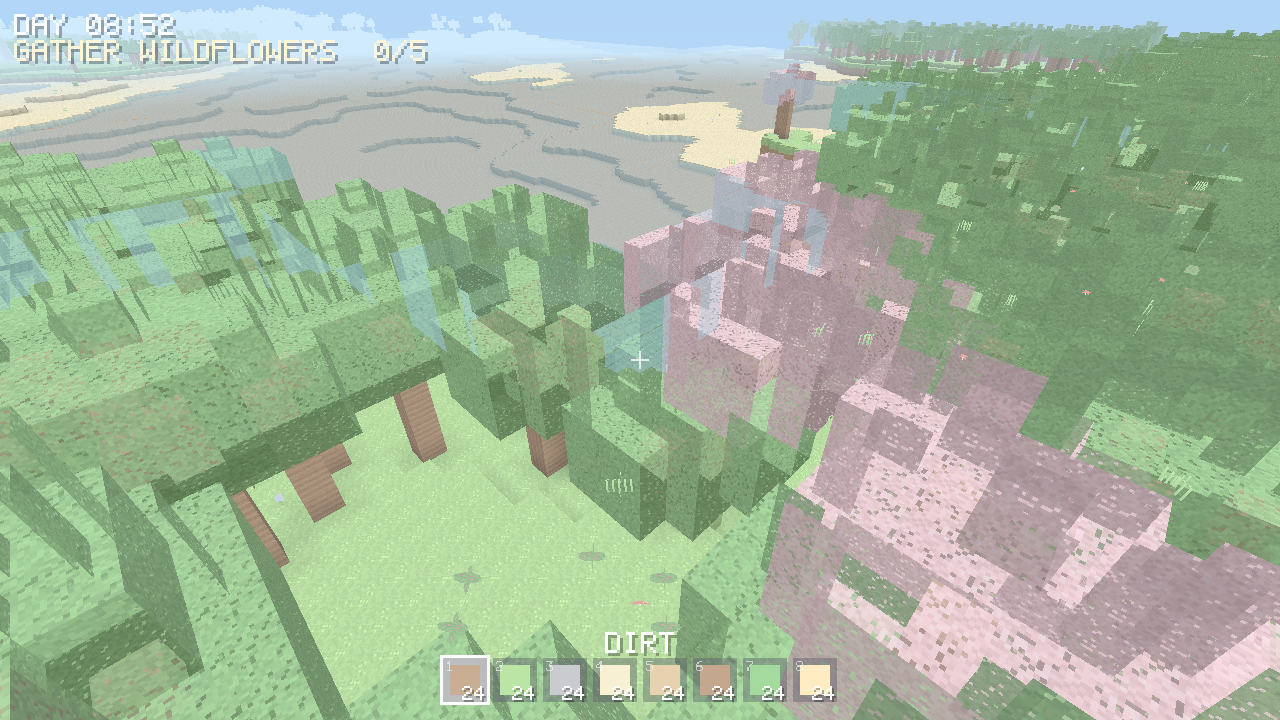
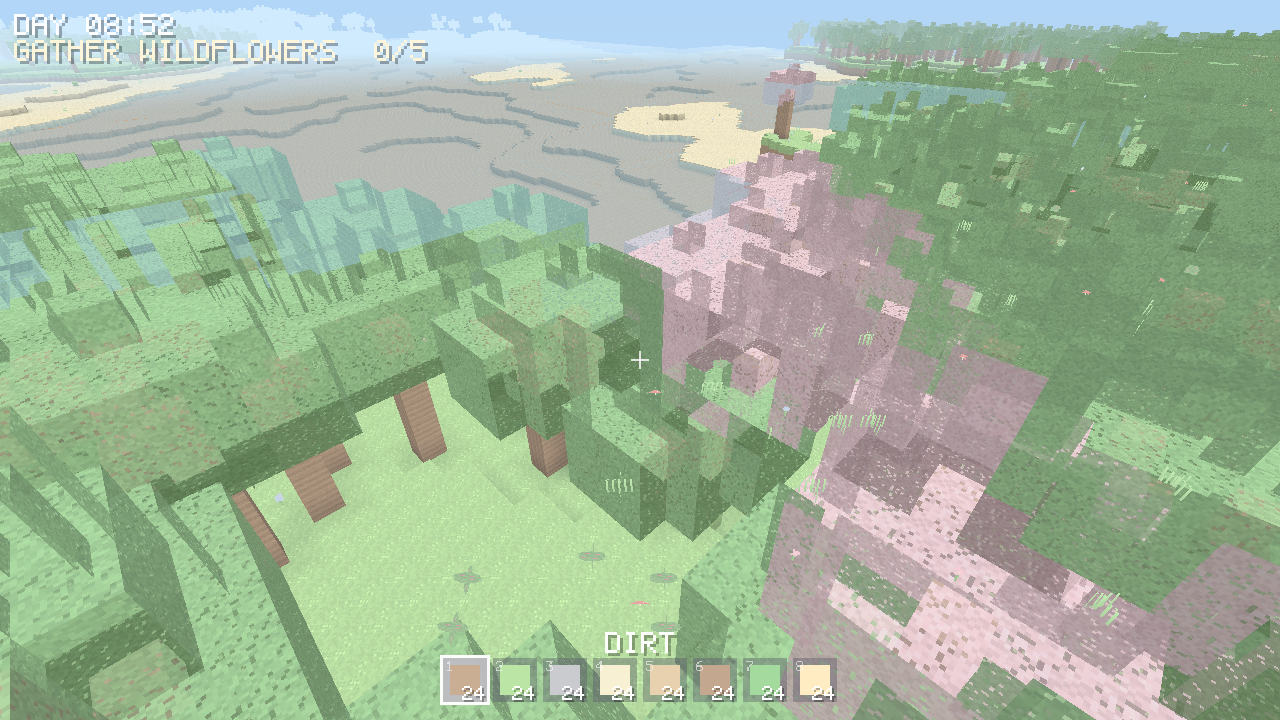
Stage 16 clip: day-cycle timelapse GIF generator
- Headless renderer can now return raw RGBA frames (capture_rgba), and the
  screenshot tool encodes a looping day->night->day GIF showing the moving sky,
  sun/moon/stars and rippling water.
- GIFs are git-ignored (large generated artifacts).

diff --git a/crates/game/src/bin/screenshot.rs b/crates/game/src/bin/screenshot.rs
@@ -200,7 +200,44 @@ fn main() {
         println!("  wrote {path}");
     }
 
+    // A day→night→day timelapse GIF over the valley.
+    make_timelapse(&game, ground, &out_dir);
+
     println!("Done. Screenshots in '{out_dir}/'.");
+}
+
+/// Render a small animated GIF cycling through a full day, showing the moving
+/// sky, sun/stars and rippling water.
+fn make_timelapse(game: &Game, ground: Vec3, out_dir: &str) {
+    const W: u32 = 480;
+    const H: u32 = 270;
+    const FRAMES: u32 = 40;
+
+    let mut clip = pixelcraft_game::render::Headless::new(W, H);
+    clip.set_render_distance(9.0 * CHUNK_EDGE);
+    clip.sync_meshes(&game.manager);
+    clip.update_entities(&game.entities);
+
+    let center = ground + Vec3::new(0.0, 2.0, 0.0);
+    let eye = center + Vec3::new(16.0, 12.0, 16.0);
+    let forward = (center - eye).normalize();
+    let camera = Camera::new(eye, forward, W as f32 / H as f32);
+
+    let path = format!("{out_dir}/09_daycycle.gif");
+    let file = std::fs::File::create(&path).expect("create gif");
+    let mut encoder = gif::Encoder::new(file, W as u16, H as u16, &[]).expect("gif encoder");
+    encoder.set_repeat(gif::Repeat::Infinite).ok();
+
+    for i in 0..FRAMES {
+        let tod = i as f32 / FRAMES as f32;
+        let env = Environment { time_of_day: tod, day_length: 600.0 };
+        clip.set_time(i as f32 * 0.35);
+        let mut rgba = clip.capture_rgba(&camera, &env);
+        let mut frame = gif::Frame::from_rgba_speed(W as u16, H as u16, &mut rgba, 10);
+        frame.delay = 8; // ~80 ms per frame
+        encoder.write_frame(&frame).expect("write gif frame");
+    }
+    println!("  wrote {path} ({FRAMES} frames)");
 }
 
 /// Scan loaded chunks for the nearest voxel of `target` to `near`.

diff --git a/crates/game/src/render/capture.rs b/crates/game/src/render/capture.rs
@@ -110,8 +110,21 @@ impl Headless {
         self.scene.upload_ui(&verts);
     }
 
+    pub fn width(&self) -> u32 {
+        self.width
+    }
+    pub fn height(&self) -> u32 {
+        self.height
+    }
+
     /// Render one frame and save it as a PNG at `path`.
     pub fn capture(&self, camera: &Camera, env: &Environment, path: impl AsRef<Path>) {
+        let pixels = self.capture_rgba(camera, env);
+        write_png(path.as_ref(), self.width, self.height, &pixels);
+    }
+
+    /// Render one frame and return the tightly-packed RGBA pixels.
+    pub fn capture_rgba(&self, camera: &Camera, env: &Environment) -> Vec<u8> {
         self.scene.update_globals(camera, env);
         let frustum = camera.frustum();
 
@@ -170,8 +183,7 @@ impl Headless {
         }
         drop(data);
         self.output_buffer.unmap();
-
-        write_png(path.as_ref(), self.width, self.height, &pixels);
+        pixels
     }
 }
 
